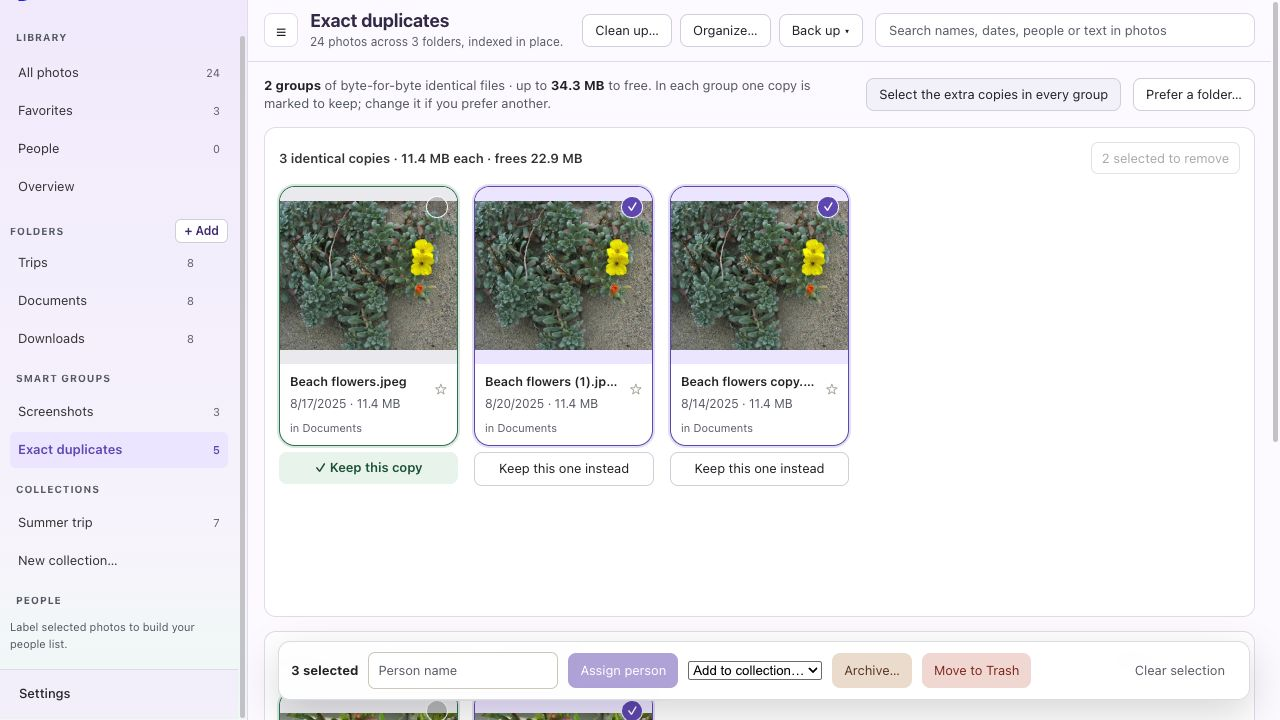
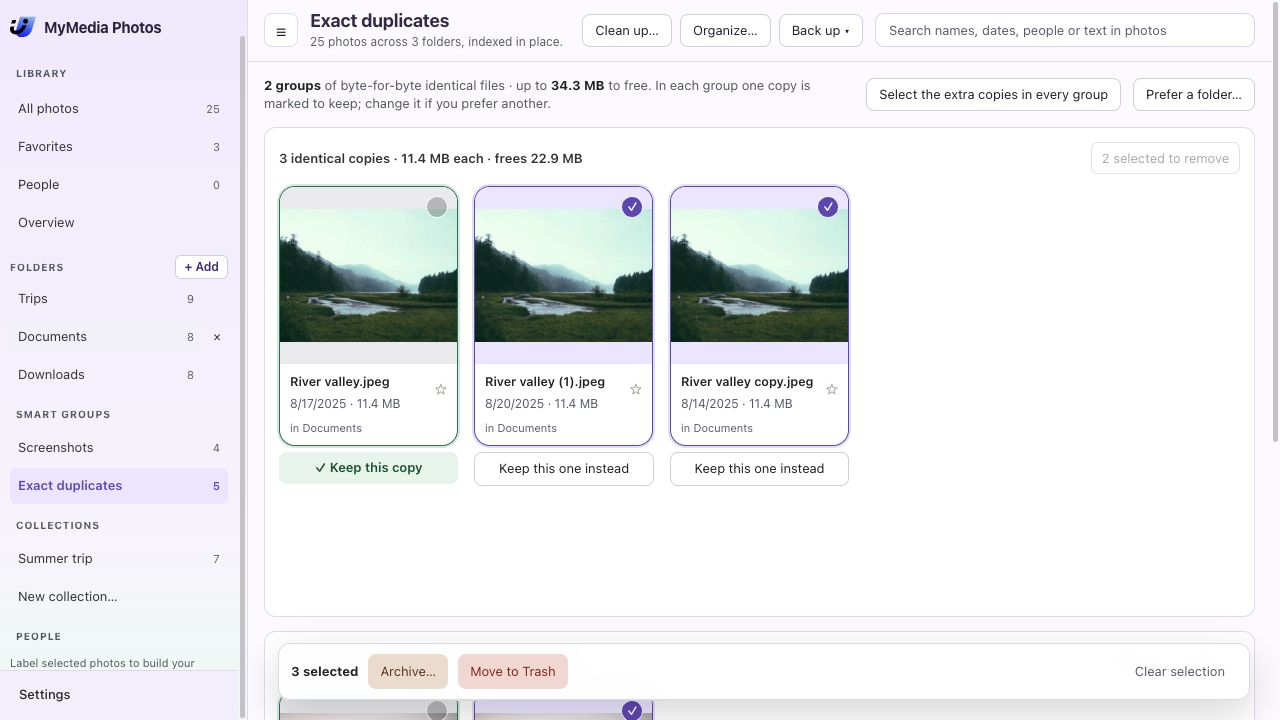
Refresh duplicate review screenshot after PR 65 (#35)

diff --git a/docs/mymedia/screenshots/README.md b/docs/mymedia/screenshots/README.md
@@ -3,3 +3,5 @@ Screens captured October 13, 2026 from the Photos renderer built at MyMedia main
 The duplicate-selection capture uses stand-in file sizes of 12,000,000 bytes per copy (34.3 MiB for three extras, displayed as MB by the current app). This is sample UI data, not measured storage savings. No files were removed.
 
 Follow-up: library-varied.jpg and search-date.jpg use 20 distinct Unsplash/Picsum images credited on the page. Dates and results are sample metadata. organize-setup.jpg shows setup only; plan review currently renders only under People (reported to Claude on issue #61). No operations applied.
+
+Duplicate review refreshed from main 7ca1c9e (PR #65), build 66 renderer. Stand-in groups use credited Unsplash photos, with three selected extra copies totaling a sample 34.3 MB. Selection bar contains count, Archive, Move to Trash and Clear selection; no people or collection controls. No originals were removed.
